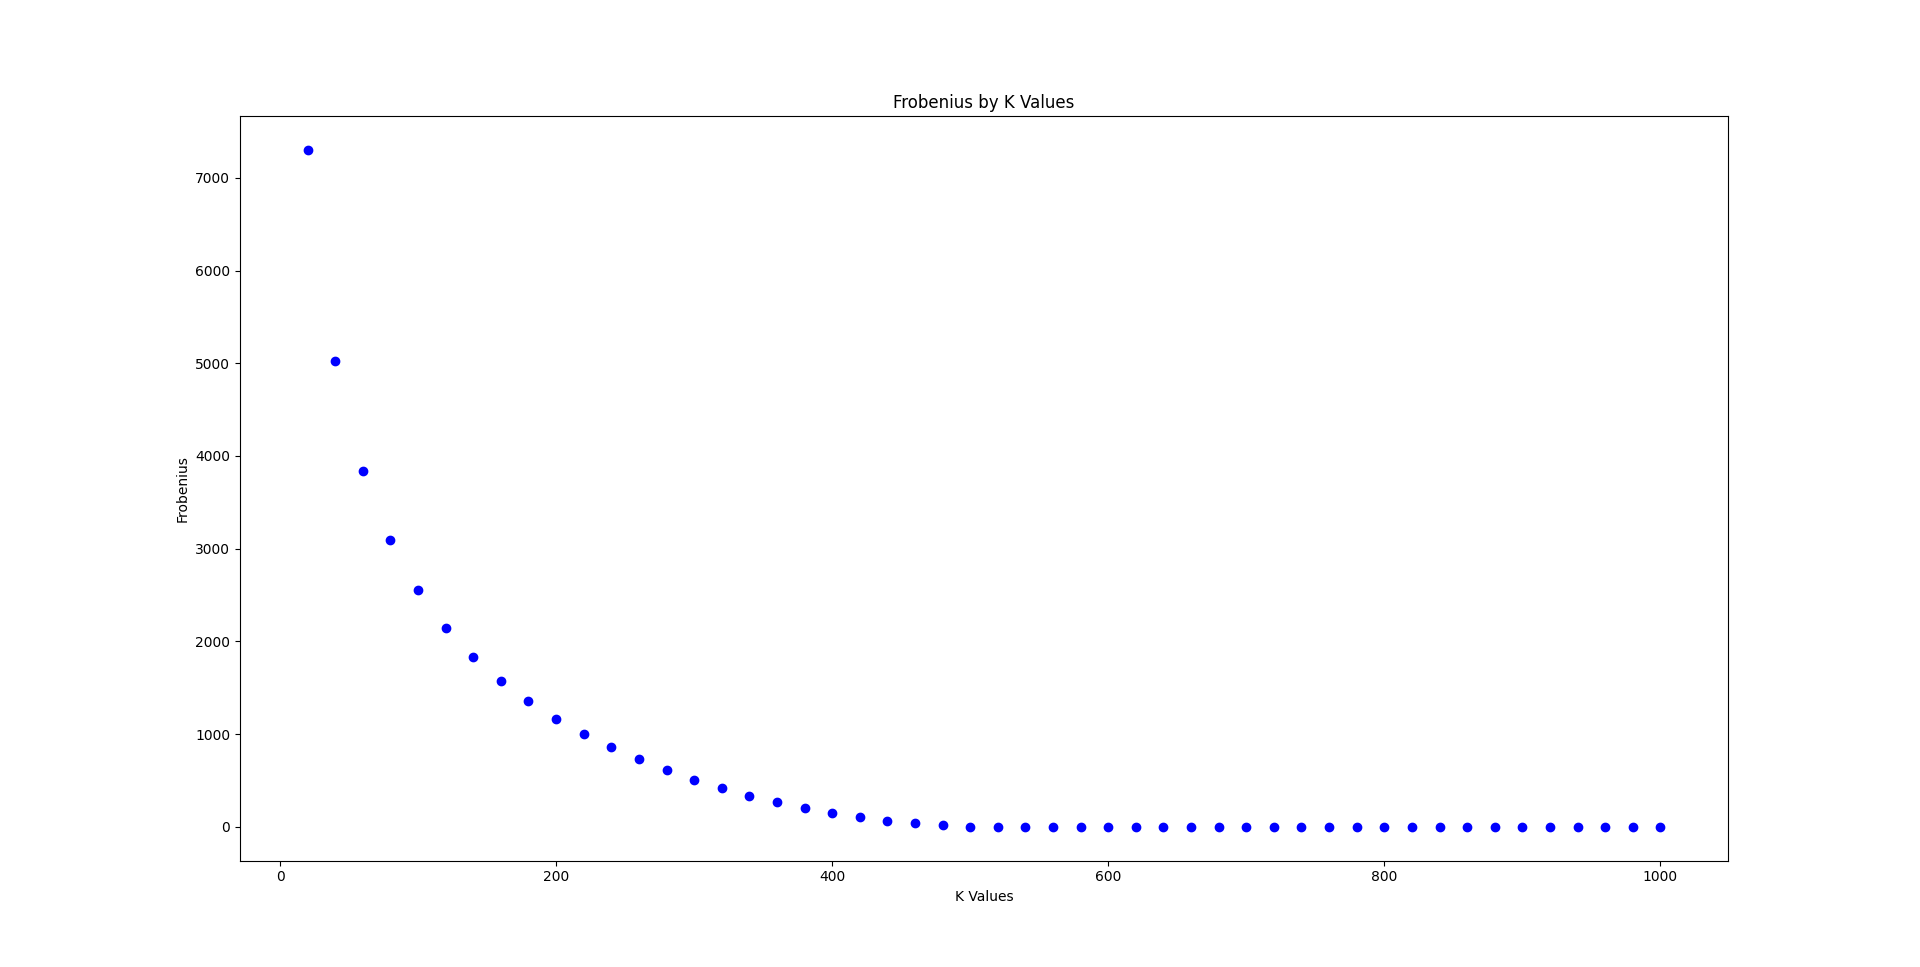
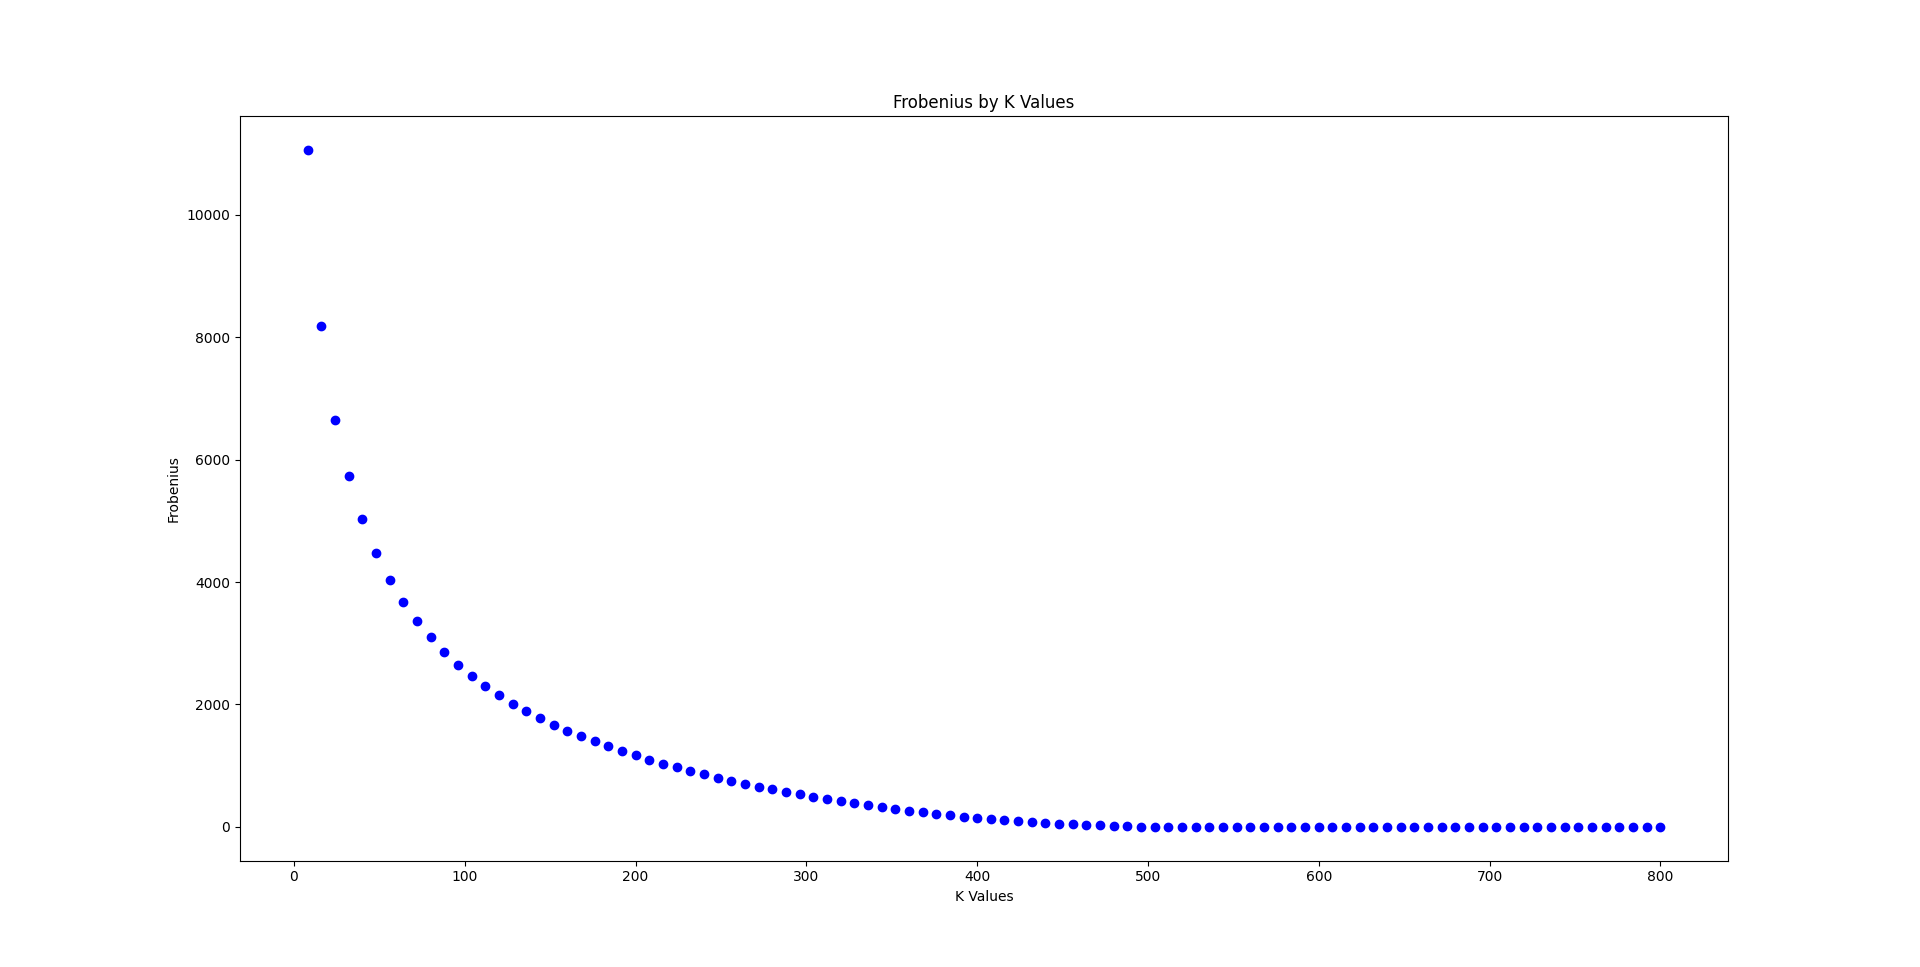
Done!

diff --git a/part1.py b/part1.py
@@ -1,25 +1,5 @@
 from importer import *
 
-# def solveSystems(matrix, vector):
-#     U, s_vector, vh = np.linalg.sv(matrix)
-#
-#     u_matrix = np.matrix(U)
-#     s_matrix = np.zeros((len(matrix), len(matrix[0])))
-#     s_inverse = np.zeros((len(matrix[0]), len(matrix)))
-#     vh_matrix = np.matrix(vh)
-#
-#     for i in range(lne(s_vector)):
-#         s_matrix[i,i] = s_vector[i]
-#         s_inverse[i,i] = 1/(s_vector[i])
-#
-#     V = vh_matrix.H
-#     uh = u_matrix.H
-#
-#     vector_x = V @ s_inverse @ uh @ vector
-#
-#     return vector_x, u_matrix, s_matrix, vh_matrix
-#
-
 def solveSystems(matrix, vector):
     U, s_vector, vh = np.linalg.svd(matrix)
 
@@ -39,44 +19,10 @@ def solveSystems(matrix, vector):
 
     return vector_x, u_matrix, s_matrix, vh_matrix
 
-# def generate_linear_system(size, rank):
-#     matrix = np.random.rand(size, size + rank)
-#     vector = np.random.rand(size, 1)
-#
-#     return matrix, vector
-#
-# def part1():
-#     sizes = [3, 4, 4, 4]  # Dimensions for different cases
-#     ranks = [3, 3, 2, 3]  # Ranks for different cases
-#
-#     for i in range(len(sizes)):
-#         matrix, vector = generate_linear_system(sizes[i], ranks[i])
-#         result, _, _, _ = solveSystems(matrix, vector)
-#
-#         print(f"\nCase {i + 1}:")
-#         print("Matrix A:")
-#         print(matrix)
-#         print("\nVector b:")
-#         print(vector)
-#         print("\nSolution x:")
-#         print(result)
-#         print("-----------")
-
 def part1():
-    rows = [3, 4, 3, 4]
+    rows =    [3, 4, 3, 4]
     columns = [3, 3, 4, 3]
-    ranks = [3, 4, 4, 2]
-
-    # rows = int(input("Insert the number of columns: "))
-    # columns = int(input("Insert the number of rows: "))
-    #
-    # rank = int(input("Insert the rank: "))
-    # while (rank > min(rows, columns)):
-    #     print("The rank must be less than the minimum between the number of rows and columns.")
-    #     rank = int(input("Insert the rank: "))
-    # matrix = RandomMatrixGenerator(rows, columns, rank).generateRandomMatrix()
-    # print("Generated matrix: ")
-    # print(matrix)
+    ranks =   [3, 3, 3, 2]
 
     for i in range(4):
 
@@ -89,30 +35,49 @@ def part1():
 
         matrix = RandomMatrixGenerator(row, column, rank).generateRandomMatrix()
 
-        print("Generated Matrix:")
-        print(matrix)
-
         vector = []
-
         for i in range(column):
             vector.append([random.randint(1, 10)])
 
         vector = np.array(vector)
         vector.transpose()
 
-        print("Generated vector: ")
-        print(vector)
-
-        print("Solution: ")
-
         vectorX, u_matrix, s_matrix, vh_matrix = solveSystems(matrix, vector)
 
+        USVh_product = u_matrix @ s_matrix @ vh_matrix
+        Ax_product = matrix @ vectorX
+
+        print("Generated Matrix:")
+        print(matrix)
+        print()
+
+        print("Generated vector: ")
+        print(vector)
+        print()
+
+        print("Solution: ")
         print(vectorX)
+        print()
         
-        print("Result Ax:")
-        print(matrix @ vectorX)
+        print("Product A @ x:")
+        print(Ax_product)
+        print()
+
+        print("Product U @ S @ Vh:")
+        print(USVh_product)
+        print()
 
         print("Vector X norm:")
         print(np.linalg.norm(vectorX))
+        print()
+
+        print("Compatibility Test: Ax vs. b")
+        print(np.allclose(Ax_product, vector, atol=1e-16))
+        print()
+
+        print("Compatibility Test: USVh vs. A")
+        print(np.allclose(matrix, USVh_product, atol=1e-16))
+        print()
+
         print()
 

diff --git a/part2.py b/part2.py
@@ -13,11 +13,12 @@ def part2():
 
     display_bw_image(bw_matrix)
 
-    for i in range(50):
-        k_value = (i+1)*20
+    for i in range(100):
+        k_value = (i+1)*8
         reconstructed_image = apply_svd_to_image(bw_matrix, k_value)
         # display_bw_image_svd(reconstructed_image, k_value)
 
         frobenius[k_value] = frobenius_norm(bw_matrix-reconstructed_image)
 
     plot_dict_as_graph(frobenius, "K Values", "Frobenius", "Frobenius by K Values")
+
